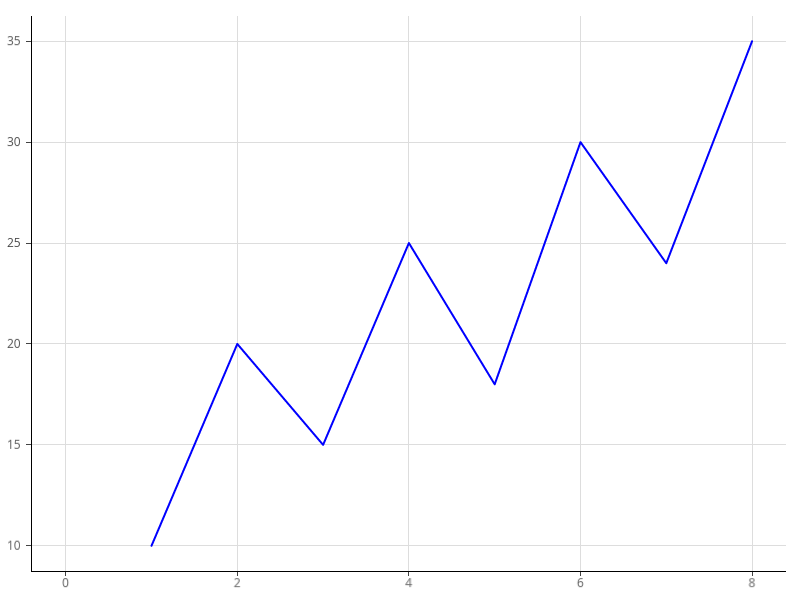
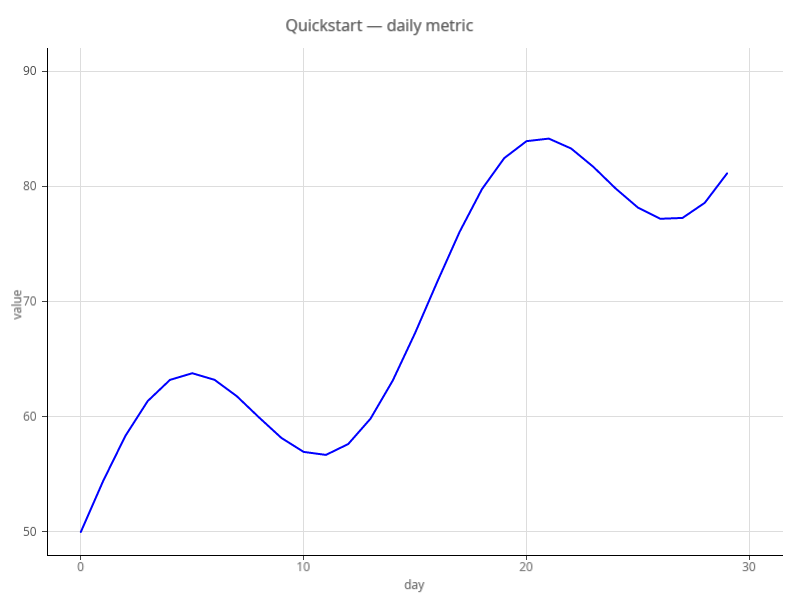
fix(chrome/buttons): explicit y baseline + 20% width + dropped &nbsp; for full-width row
Three issues from Albin's screenshot:

1. Bad text centering — `dominant-baseline="central"` is not honoured by
   GitHub's image-mode SVG renderer. Switched to explicit y = H/2 + 4
   (label) / H/2 + 5 (value) which gives visually-centred text across
   GitHub, lib.rs, crates.io and local previewers.

2. Text too large — 14/17 pt was overpowering at the rendered size.
   Dropped to 12 pt mono label / 14 pt sans value.

3. Buttons didn't span the full row width — switched img width 19% → 20%
   and removed &nbsp; gaps so 5 buttons × 20% = 100%, no whitespace
   between them. Tightened the SVG aspect to 184×56 (was 184×40) so
   when scaled down the visual height feels proportionate to the
   content beside.

Buttons now: identical 184×56 viewBox, drawn entirely under our control,
referenced via `<picture>` for theme switching, scale uniformly with
img width=20%.

diff --git a/examples/composition/energy_transition.rs b/examples/composition/energy_transition.rs
@@ -1,0 +1,83 @@
+//! Energy transition donut — starsight 0.3.0 showcase #39 variant B.
+//!
+//! Two concentric donut rings comparing the global energy mix between 2020
+//! (inner ring) and 2025 (outer ring). Each color keys a fixed source across
+//! both years, so the per-source share shift between rings reads at a
+//! glance — solar and wind grow, gas and coal contract, hydro and nuclear
+//! roughly hold.
+//!
+//! Inner ring sits at `r_inner = 0.40 .. r_outer = 0.65`; outer ring at
+//! `r_inner = 0.75 .. r_outer = 1.00`. The 0.10-unit radial gap visually
+//! separates the two years without crowding either.
+//!
+//! Pairs with `donut.rs` (single donut, Variant A) and `donut_sunburst.rs`
+//! (three-level sunburst, Variant C) to cover the spec's three concentric-
+//! arc patterns.
+
+use starsight::axes::Axis;
+use starsight::prelude::*;
+
+fn main() -> Result<()> {
+    // Six energy sources, same order in both rings so the color → source
+    // mapping is consistent year-over-year.
+    let labels = ["Solar", "Wind", "Hydro", "Nuclear", "Gas", "Coal"];
+    let colors = [
+        Color::from_hex(0x00F1_C40F), // Solar    — yellow
+        Color::from_hex(0x003A_A39C), // Wind     — teal
+        Color::from_hex(0x002E_86AB), // Hydro    — blue
+        Color::from_hex(0x008E_44AD), // Nuclear  — purple
+        Color::from_hex(0x00E6_7E22), // Gas      — orange
+        Color::from_hex(0x004A_4A4A), // Coal     — neutral dark
+    ];
+
+    let outer_pct = [22.0, 19.0, 16.0, 18.0, 15.0, 10.0]; // 2025
+    let inner_pct = [10.0, 12.0, 18.0, 20.0, 22.0, 18.0]; // 2020
+
+    let theta_axis = Axis::polar_angular(0.0, std::f64::consts::TAU);
+    let r_axis = Axis::polar_radial(0.0, 1.0);
+
+    let outer = ring_arc(&outer_pct, &colors, 1.00, 0.75, &labels);
+    let inner = ring_arc(&inner_pct, &colors, 0.65, 0.40, &labels);
+
+    Figure::new(800, 800)
+        .theme(theme_from_env())
+        .title("Energy transition — 2020 (inner) vs 2025 (outer)")
+        .polar_axes(theta_axis, r_axis)
+        .add(inner)
+        .add(outer)
+        .save(format!(
+            "examples/composition/energy_transition{}.{}",
+            theme_suffix_from_env(),
+            format_extension_from_env()
+        ))
+}
+
+/// Build one donut ring: each wedge's angular span is proportional to its
+/// percentage, the ring sits between `r_inner` and `r_outer`, and the
+/// per-wedge color cycle keys label[i] → palette[i].
+fn ring_arc(
+    pct: &[f64],
+    palette: &[Color],
+    r_outer: f64,
+    r_inner: f64,
+    labels: &[&str],
+) -> ArcMark {
+    let total: f64 = pct.iter().sum();
+    let mut thetas = Vec::with_capacity(pct.len());
+    let mut half_widths = Vec::with_capacity(pct.len());
+    let mut cum = 0.0;
+    for &p in pct {
+        let frac = p / total;
+        let center = (cum + p * 0.5) / total * std::f64::consts::TAU;
+        let half = frac * std::f64::consts::PI;
+        thetas.push(center);
+        half_widths.push(half);
+        cum += p;
+    }
+    ArcMark::new(thetas, vec![r_outer; pct.len()])
+        .r_inner(vec![r_inner; pct.len()])
+        .theta_half_widths(half_widths)
+        .colors(palette[..pct.len()].to_vec())
+        .stroke(Color::WHITE, 1.0)
+        .wedge_labels(labels.iter().map(|s| (*s).to_string()).collect())
+}

diff --git a/examples/basics/quickstart.rs b/examples/basics/quickstart.rs
@@ -1,14 +1,26 @@
 //! Quickstart — starsight 0.2.0 showcase
 //!
-//! The absolute simplest path: the `plot!` macro, three values, one save call.
-//! This is what gets advertised at the top of `starsight/src/lib.rs`.
+//! The absolute simplest path: the `plot!` macro, two arrays, one save call,
+//! plus three optional setters for a shippable-looking chart. This is what
+//! gets advertised at the top of `starsight/src/lib.rs`.
+//!
+//! The data is a synthetic monthly metric — a slow upward trend with seasonal
+//! oscillation — so the curve has a recognizable shape rather than the
+//! arbitrary zigzag a placeholder dataset gives.
 
 use starsight::prelude::*;
 
 fn main() -> Result<()> {
-    plot!(
-        &[1.0, 2.0, 3.0, 4.0, 5.0, 6.0, 7.0, 8.0],
-        &[10.0, 20.0, 15.0, 25.0, 18.0, 30.0, 24.0, 35.0]
-    )
-    .save("examples/basics/quickstart.png")
+    let xs: Vec<f64> = (0..30).map(f64::from).collect();
+    // Linear growth with a gentle ±8 oscillation; lands in the 50–95 range.
+    let ys: Vec<f64> = xs
+        .iter()
+        .map(|x| 50.0 + x * 1.3 + 8.0 * (x * 0.4).sin())
+        .collect();
+
+    plot!(&xs, &ys)
+        .title("Quickstart — daily metric")
+        .x_label("day")
+        .y_label("value")
+        .save("examples/basics/quickstart.png")
 }

diff --git a/xtask/src/chrome/buttons.rs b/xtask/src/chrome/buttons.rs
@@ -18,8 +18,8 @@ use super::palette::{MONO_FAMILY, SANS, Theme, palette};
 use super::svg::{header, write_atomic};
 
 const W: u32 = 184;
-const H: u32 = 40;
-const RADIUS: f32 = 4.0;
+const H: u32 = 56;
+const RADIUS: f32 = 6.0;
 
 /// Each button has a label half (dark, mono uppercase tag) and a value half
 /// (slightly different shade, sans bold). Label width is fixed so the seam
@@ -149,23 +149,25 @@ fn render(theme: Theme, b: &Button) -> String {
         h = H - 1,
     ));
 
-    // Label text — mono uppercase, vertically centred via dominant-baseline.
+    // Label text — mono uppercase. Explicit baseline (no dominant-baseline,
+    // which is unreliable in image-mode SVG renderers like GitHub's). Visual
+    // centre at y = H/2 + 4 for 12-pt mono.
     out.push_str(&format!(
-        r#"  <text x="{lx}" y="{cy}" font-family="{f}" font-weight="700" font-size="11" fill="{c}" letter-spacing="0.6" text-anchor="middle" dominant-baseline="central">{label}</text>
+        r#"  <text x="{lx}" y="{ly}" font-family="{f}" font-weight="700" font-size="12" fill="{c}" letter-spacing="0.6" text-anchor="middle">{label}</text>
 "#,
         lx = LABEL_W / 2,
-        cy = H / 2,
+        ly = H / 2 + 4,
         f = MONO_FAMILY,
         c = label_fg,
         label = escape(b.label),
     ));
 
-    // Value text — sans bold, vertically centred.
+    // Value text — sans bold, same explicit baseline strategy.
     out.push_str(&format!(
-        r#"  <text x="{vx}" y="{cy}" font-family="{f}" font-weight="700" font-size="13" fill="{c}" text-anchor="middle" dominant-baseline="central">{value}</text>
+        r#"  <text x="{vx}" y="{vy}" font-family="{f}" font-weight="700" font-size="14" fill="{c}" text-anchor="middle">{value}</text>
 "#,
         vx = LABEL_W + (W - LABEL_W) / 2,
-        cy = H / 2,
+        vy = H / 2 + 5,
         f = SANS,
         c = value_fg,
         value = escape(b.value),

diff --git a/.spec/SHOWCASE_INPUTS.md b/.spec/SHOWCASE_INPUTS.md
@@ -299,6 +299,8 @@ Candle colors: up `#26a69a`, down `#ef5350`.
 **Mark:** `ArcMark` on `PolarCoord`
 **Why 0.3.0:** PieMark/DonutMark (arc geometry) lands at 0.3.0.
 
+**Shipped status:** Variant A → `examples/composition/donut.rs` (donut with vote-share data; same arc geometry as the spec). Variant B → `examples/composition/energy_transition.rs`. Variant C → `examples/composition/donut_sunburst.rs`.
+
 ### Variant A — Fibonacci donut
 
 ```
@@ -387,11 +389,11 @@ Adds `GridLayout`, `FacetWrap`, `FacetGrid`, `Legend`, `Colorbar`, `PairPlot`, `
 
 ---
 
-## 2  Multi-panel distribution dashboard · `0.4.0`
+## 2  Multi-panel distribution dashboard · `0.3.0` (shipped)
 
 **Marks:** `BarMark` + `Bin` stat (0.2.0), `AreaMark` + `KDE` stat (0.3.0), `BoxPlotMark` (0.3.0), `PointMark` (0.1.0)
-**Layout:** `GridLayout` 2×2 (0.4.0)
-**Why 0.4.0:** All marks exist by 0.3.0, but GridLayout is 0.4.0.
+**Layout:** `MultiPanelFigure` 2×2 (0.3.0)
+**Status:** Shipped at `examples/composition/distribution_dashboard.rs`. Originally tagged 0.4.0 because GridLayout was deferred; pulled forward when `MultiPanelFigure` covered the layout need during Epic L.
 
 ```
 overall ~ Beta(α=5, β=3) scaled to [45, 92]
@@ -551,11 +553,11 @@ Upper tri: hexbin. Diagonal: KDE per species. Lower tri: scatter + OLS.
 
 ---
 
-## 17  Reciprocal-space scattering maps · `0.4.0`
+## 17  Reciprocal-space scattering maps · `0.3.0` (shipped)
 
-**Marks:** `HeatmapMark` (0.2.0), `PointMark` + `ErrorBarMark`
-**Layout:** `GridLayout` 3×3 (0.4.0)
-**Why 0.4.0:** GridLayout for multi-panel.
+**Marks:** `HeatmapMark` (0.2.0), `PointMark` + `ErrorBarMark` (0.3.0)
+**Layout:** `MultiPanelFigure` 2×3 (heatmap row + h-cut row) (0.3.0)
+**Status:** Shipped at `examples/scientific/reciprocal_space.rs`. Originally tagged 0.4.0; pulled forward when `MultiPanelFigure` + `ErrorBarMark` both landed in 0.3.0 (Epic L Phase I).
 
 ```
 S(h, k) = Σ_Q  A_Q / ((h − Q_h)² + (k − Q_k)² + Γ²)

diff --git a/README.md b/README.md
@@ -27,9 +27,7 @@ starsight turns a `Figure` of marks (line, scatter, bar, area, histogram, heatma
        width="100%">
 </picture>
 
-<p>
-  <a href="https://crates.io/crates/starsight"><picture><source media="(prefers-color-scheme: dark)" srcset="assets/buttons/crates-dark.svg"><img alt="crates.io" width="19%" src="assets/buttons/crates-light.svg"></picture></a>&nbsp;<a href="https://docs.rs/starsight"><picture><source media="(prefers-color-scheme: dark)" srcset="assets/buttons/docs-dark.svg"><img alt="docs.rs" width="19%" src="assets/buttons/docs-light.svg"></picture></a>&nbsp;<a href="https://app.codecov.io/gh/resonant-jovian/starsight"><picture><source media="(prefers-color-scheme: dark)" srcset="assets/buttons/codecov-dark.svg"><img alt="codecov" width="19%" src="assets/buttons/codecov-light.svg"></picture></a>&nbsp;<a href="https://github.com/resonant-jovian/starsight/actions/workflows/ci.yml"><picture><source media="(prefers-color-scheme: dark)" srcset="assets/buttons/ci-dark.svg"><img alt="CI" width="19%" src="assets/buttons/ci-light.svg"></picture></a>&nbsp;<a href="LICENSE"><picture><source media="(prefers-color-scheme: dark)" srcset="assets/buttons/license-dark.svg"><img alt="License: GPL-3.0" width="19%" src="assets/buttons/license-light.svg"></picture></a>
-</p>
+<p><a href="https://crates.io/crates/starsight"><picture><source media="(prefers-color-scheme: dark)" srcset="assets/buttons/crates-dark.svg"><img alt="crates.io" width="20%" src="assets/buttons/crates-light.svg"></picture></a><a href="https://docs.rs/starsight"><picture><source media="(prefers-color-scheme: dark)" srcset="assets/buttons/docs-dark.svg"><img alt="docs.rs" width="20%" src="assets/buttons/docs-light.svg"></picture></a><a href="https://app.codecov.io/gh/resonant-jovian/starsight"><picture><source media="(prefers-color-scheme: dark)" srcset="assets/buttons/codecov-dark.svg"><img alt="codecov" width="20%" src="assets/buttons/codecov-light.svg"></picture></a><a href="https://github.com/resonant-jovian/starsight/actions/workflows/ci.yml"><picture><source media="(prefers-color-scheme: dark)" srcset="assets/buttons/ci-dark.svg"><img alt="CI" width="20%" src="assets/buttons/ci-light.svg"></picture></a><a href="LICENSE"><picture><source media="(prefers-color-scheme: dark)" srcset="assets/buttons/license-dark.svg"><img alt="License: GPL-3.0" width="20%" src="assets/buttons/license-light.svg"></picture></a></p>
 
 > [!WARNING]
 > **starsight is at 0.3.0 of a planned 1.0.0 trajectory.** The roadmap below is the contract — items marked **shipped** are stable within the 0.x line; items marked **planned** may shift in scope. Pre-1.0, every minor bump is potentially breaking. MSRV bumps require a minor version bump until 1.0.

diff --git a/examples/README.md b/examples/README.md
@@ -1,6 +1,6 @@
 # starsight examples
 
-Forty-one runnable examples grouped by what they teach. Each `.rs` file lives
+Forty-two runnable examples grouped by what they teach. Each `.rs` file lives
 next to its rendered `.png`, so you can browse the gallery on GitHub without
 running anything.
 
@@ -59,6 +59,7 @@ auto-derived legend lives here.
 | [`pie`](composition/pie.rs) — [PNG](composition/pie.png) | `PieMark` with `show_percent()` and a custom 6-color palette |
 | [`donut`](composition/donut.rs) — [PNG](composition/donut.png) | `PieMark` with `inner_radius(0.5)` and raw value labels |
 | [`donut_sunburst`](composition/donut_sunburst.rs) — [PNG](composition/donut_sunburst.png) | Three-level nested `ArcMark` sunburst on `Figure::polar_axes` (spec #39 var C) |
+| [`energy_transition`](composition/energy_transition.rs) — [PNG](composition/energy_transition.png) | Two concentric `ArcMark` rings comparing 2020 vs 2025 energy mix (six sources × two years) on `Figure::polar_axes` (spec #39 var B) |
 | [`rug_with_histogram`](composition/rug_with_histogram.rs) — [PNG](composition/rug_with_histogram.png) | `HistogramMark` (40-bin Gaussian) + `RugMark` overlay on the x-axis margin showing per-sample density |
 | [`violin_raincloud`](composition/violin_raincloud.rs) — [PNG](composition/violin_raincloud.png) | Raincloud composition — `ViolinMark` with built-in inner box plot, plus a jittered `PointMark` strip shifted to the right side of each band (spec #19) |
 | [`distribution_dashboard`](composition/distribution_dashboard.rs) — [PNG](composition/distribution_dashboard.png) | 2×2 `MultiPanelFigure`: histogram, KDE area, `BoxPlotMark` by country, and `PointMark` scatter — four views of the same Beta(5, 3) synthetic dataset (spec #2) |